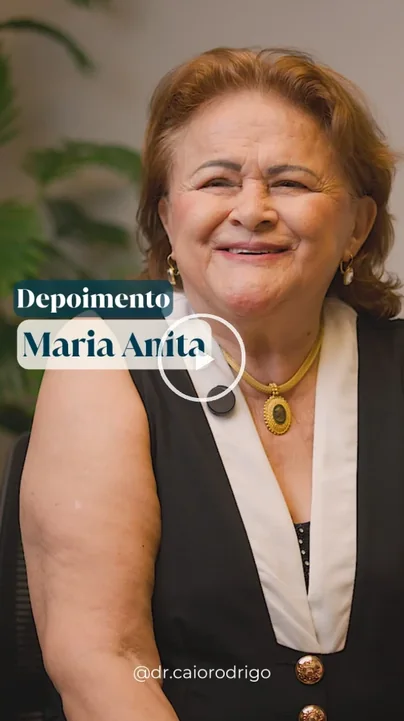
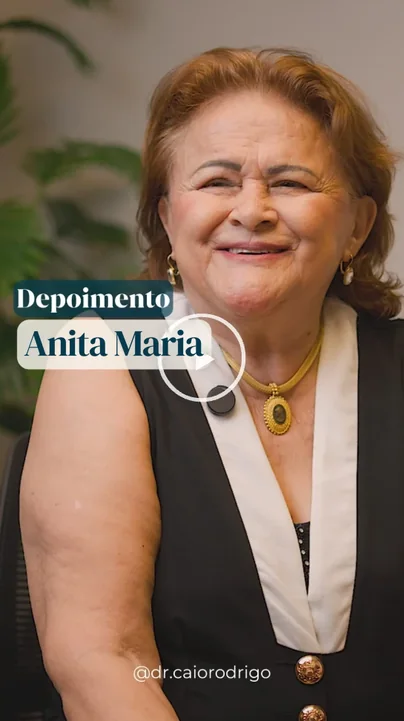
Corrige o nome na capa do depoimento para Anita Maria

Changed region(s): [[0.0594, 0.4577, 0.505, 0.5187]]

diff --git a/site/index.html b/site/index.html
@@ -619,8 +619,8 @@
               <a class="video video--tall video--baked" href="assets/video/depoimento-anita-maria.mp4?v=5" data-video data-fullscreen-mobile
                  aria-label="Assistir ao depoimento de Anita Maria Nascimento, 1 minuto e 29 segundos">
                 <picture>
-                  <source type="image/webp" srcset="assets/img/poster-depoimento-anita-maria-404.webp?v=5 404w, assets/img/poster-depoimento-anita-maria-540.webp?v=5 540w" sizes="(min-width: 64em) 17rem, 46vw">
-                  <img src="assets/img/poster-depoimento-anita-maria-540.jpg?v=5" width="540" height="960" loading="lazy" decoding="async" alt="">
+                  <source type="image/webp" srcset="assets/img/poster-depoimento-anita-maria-404.webp?v=6 404w, assets/img/poster-depoimento-anita-maria-540.webp?v=6 540w" sizes="(min-width: 64em) 17rem, 46vw">
+                  <img src="assets/img/poster-depoimento-anita-maria-540.jpg?v=6" width="540" height="960" loading="lazy" decoding="async" alt="">
                 </picture>
                 <span class="video__play" aria-hidden="true"><svg class="icon"><use href="#i-play"/></svg></span>
                 <span class="video__label" aria-hidden="true"><span></span><time datetime="PT1M29S">1:29</time></span>
